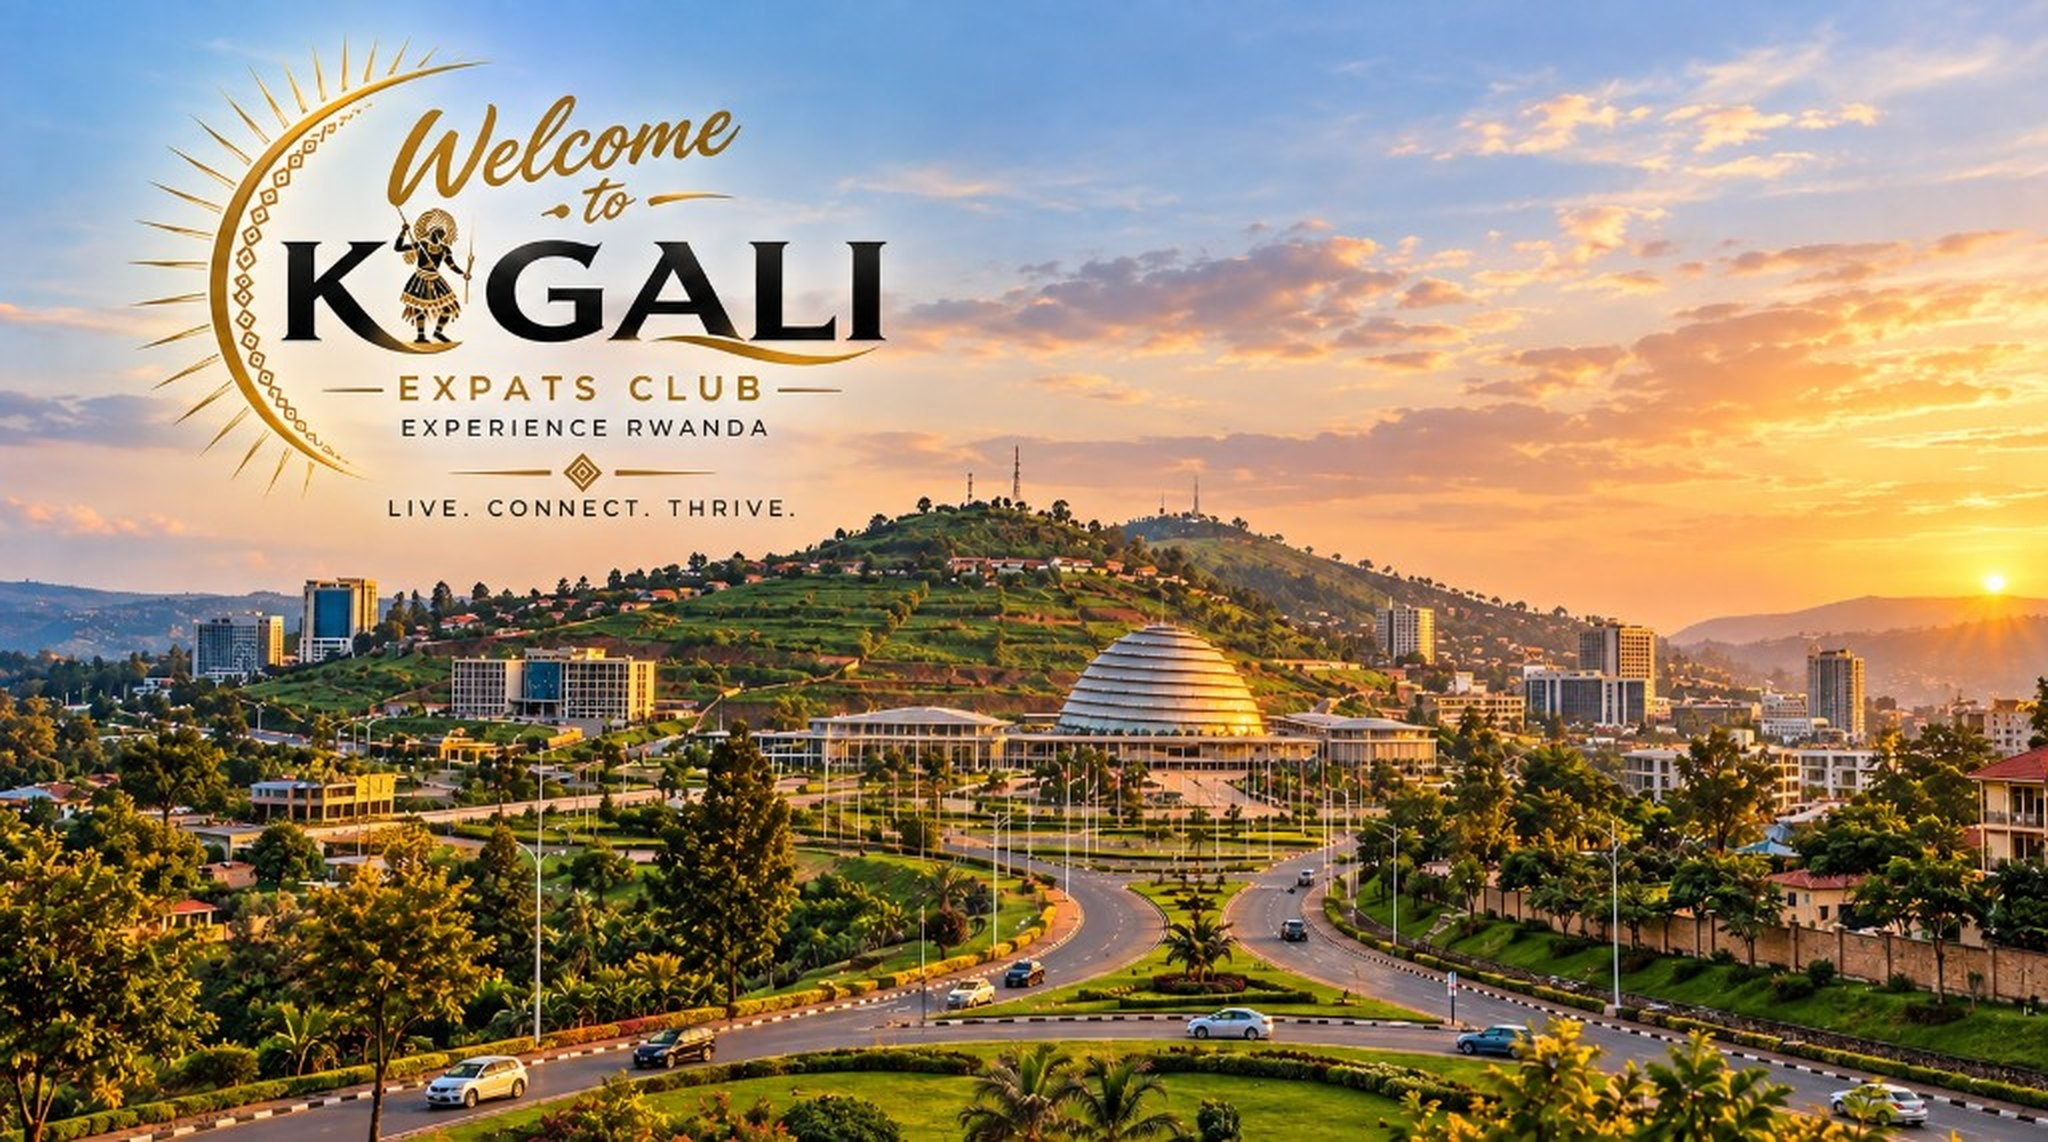
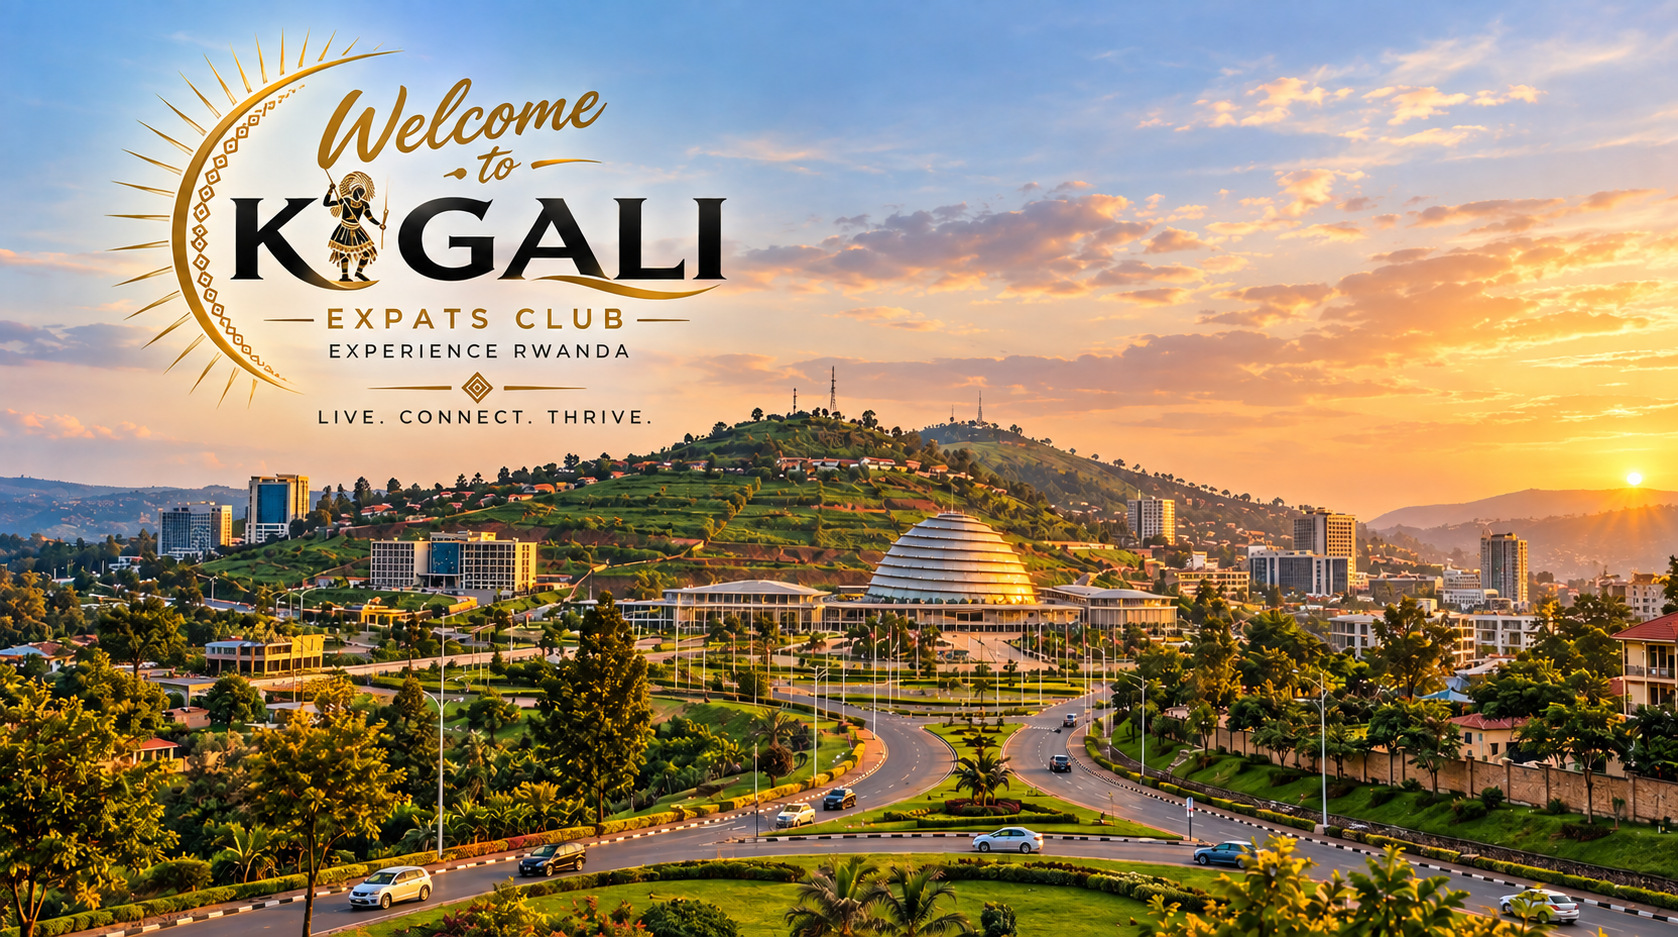
Serve the homepage hero from the sharp landing artwork so laptops and phones get a high-definition image.

diff --git a/src/constants/appVersion.js b/src/constants/appVersion.js
@@ -1,5 +1,5 @@
 /** Beyond Enterprise ERP release identifier — update when creating a new restore point. */
-export const APP_VERSION = 'W2K_V_1.9.4';
+export const APP_VERSION = 'W2K_V_1.9.5';
 
 export const APP_VERSION_LABEL = 'Version';
 

diff --git a/apps/api/src/constants/appVersion.js b/apps/api/src/constants/appVersion.js
@@ -1,1 +1,1 @@
-export const APP_VERSION = 'W2K_V_1.9.4';
+export const APP_VERSION = 'W2K_V_1.9.5';

diff --git a/laravel-app/resources/views/beyond/home.blade.php b/laravel-app/resources/views/beyond/home.blade.php
@@ -6,6 +6,11 @@
 @section('hide_footer', '1')
 
 @push('head')
+<link rel="preload" as="image"
+      href="{{ \App\Support\SiteBrand::landingUrl('2x') }}"
+      imagesrcset="{{ \App\Support\SiteBrand::landingUrl('1x') }} 1280w, {{ \App\Support\SiteBrand::landingUrl('2x') }} 1678w, {{ \App\Support\SiteBrand::landingUrl('png') }} 1678w"
+      imagesizes="100vw"
+      fetchpriority="high">
 <style>
     body.home-landing {
         background-color: #0A0A0A;
@@ -28,6 +33,8 @@
         max-width: none;
         object-fit: cover;
         object-position: center 40%;
+        image-rendering: auto;
+        image-rendering: high-quality;
         z-index: 1;
         pointer-events: none;
         user-select: none;
@@ -104,10 +111,10 @@
     <h1 class="sr-only">{!! \App\Support\SiteContent::html('home.hero_title', \App\Support\SiteBrand::siteTitle($general_setting ?? null)) !!}</h1>
     <img class="landing-hero-art"
          src="{{ \App\Support\SiteBrand::landingUrl('2x') }}"
-         srcset="{{ \App\Support\SiteBrand::landingUrl('1x') }} 1024w, {{ \App\Support\SiteBrand::landingUrl('2x') }} 2048w"
+         srcset="{{ \App\Support\SiteBrand::landingUrl('1x') }} 1280w, {{ \App\Support\SiteBrand::landingUrl('2x') }} 1678w, {{ \App\Support\SiteBrand::landingUrl('png') }} 1678w"
          sizes="100vw"
-         width="2048"
-         height="1142"
+         width="1678"
+         height="937"
          alt="{{ \App\Support\SiteBrand::siteTitle($general_setting ?? null) }}"
          decoding="async"
          fetchpriority="high">

diff --git a/laravel-app/app/Support/SiteBrand.php b/laravel-app/app/Support/SiteBrand.php
@@ -36,7 +36,13 @@ class SiteBrand
 
     public static function landingUrl($density = '1x')
     {
-        $file = $density === '2x' ? 'w2k-landing@2x.jpg' : 'w2k-landing.jpg';
+        if ($density === 'png') {
+            $file = 'w2k-landing.png';
+        } elseif ($density === '2x') {
+            $file = 'w2k-landing@2x.jpg';
+        } else {
+            $file = 'w2k-landing.jpg';
+        }
         $path = base_path('public/branding/'.$file);
         if (! is_file($path)) {
             $file = 'w2k-landing.png';
